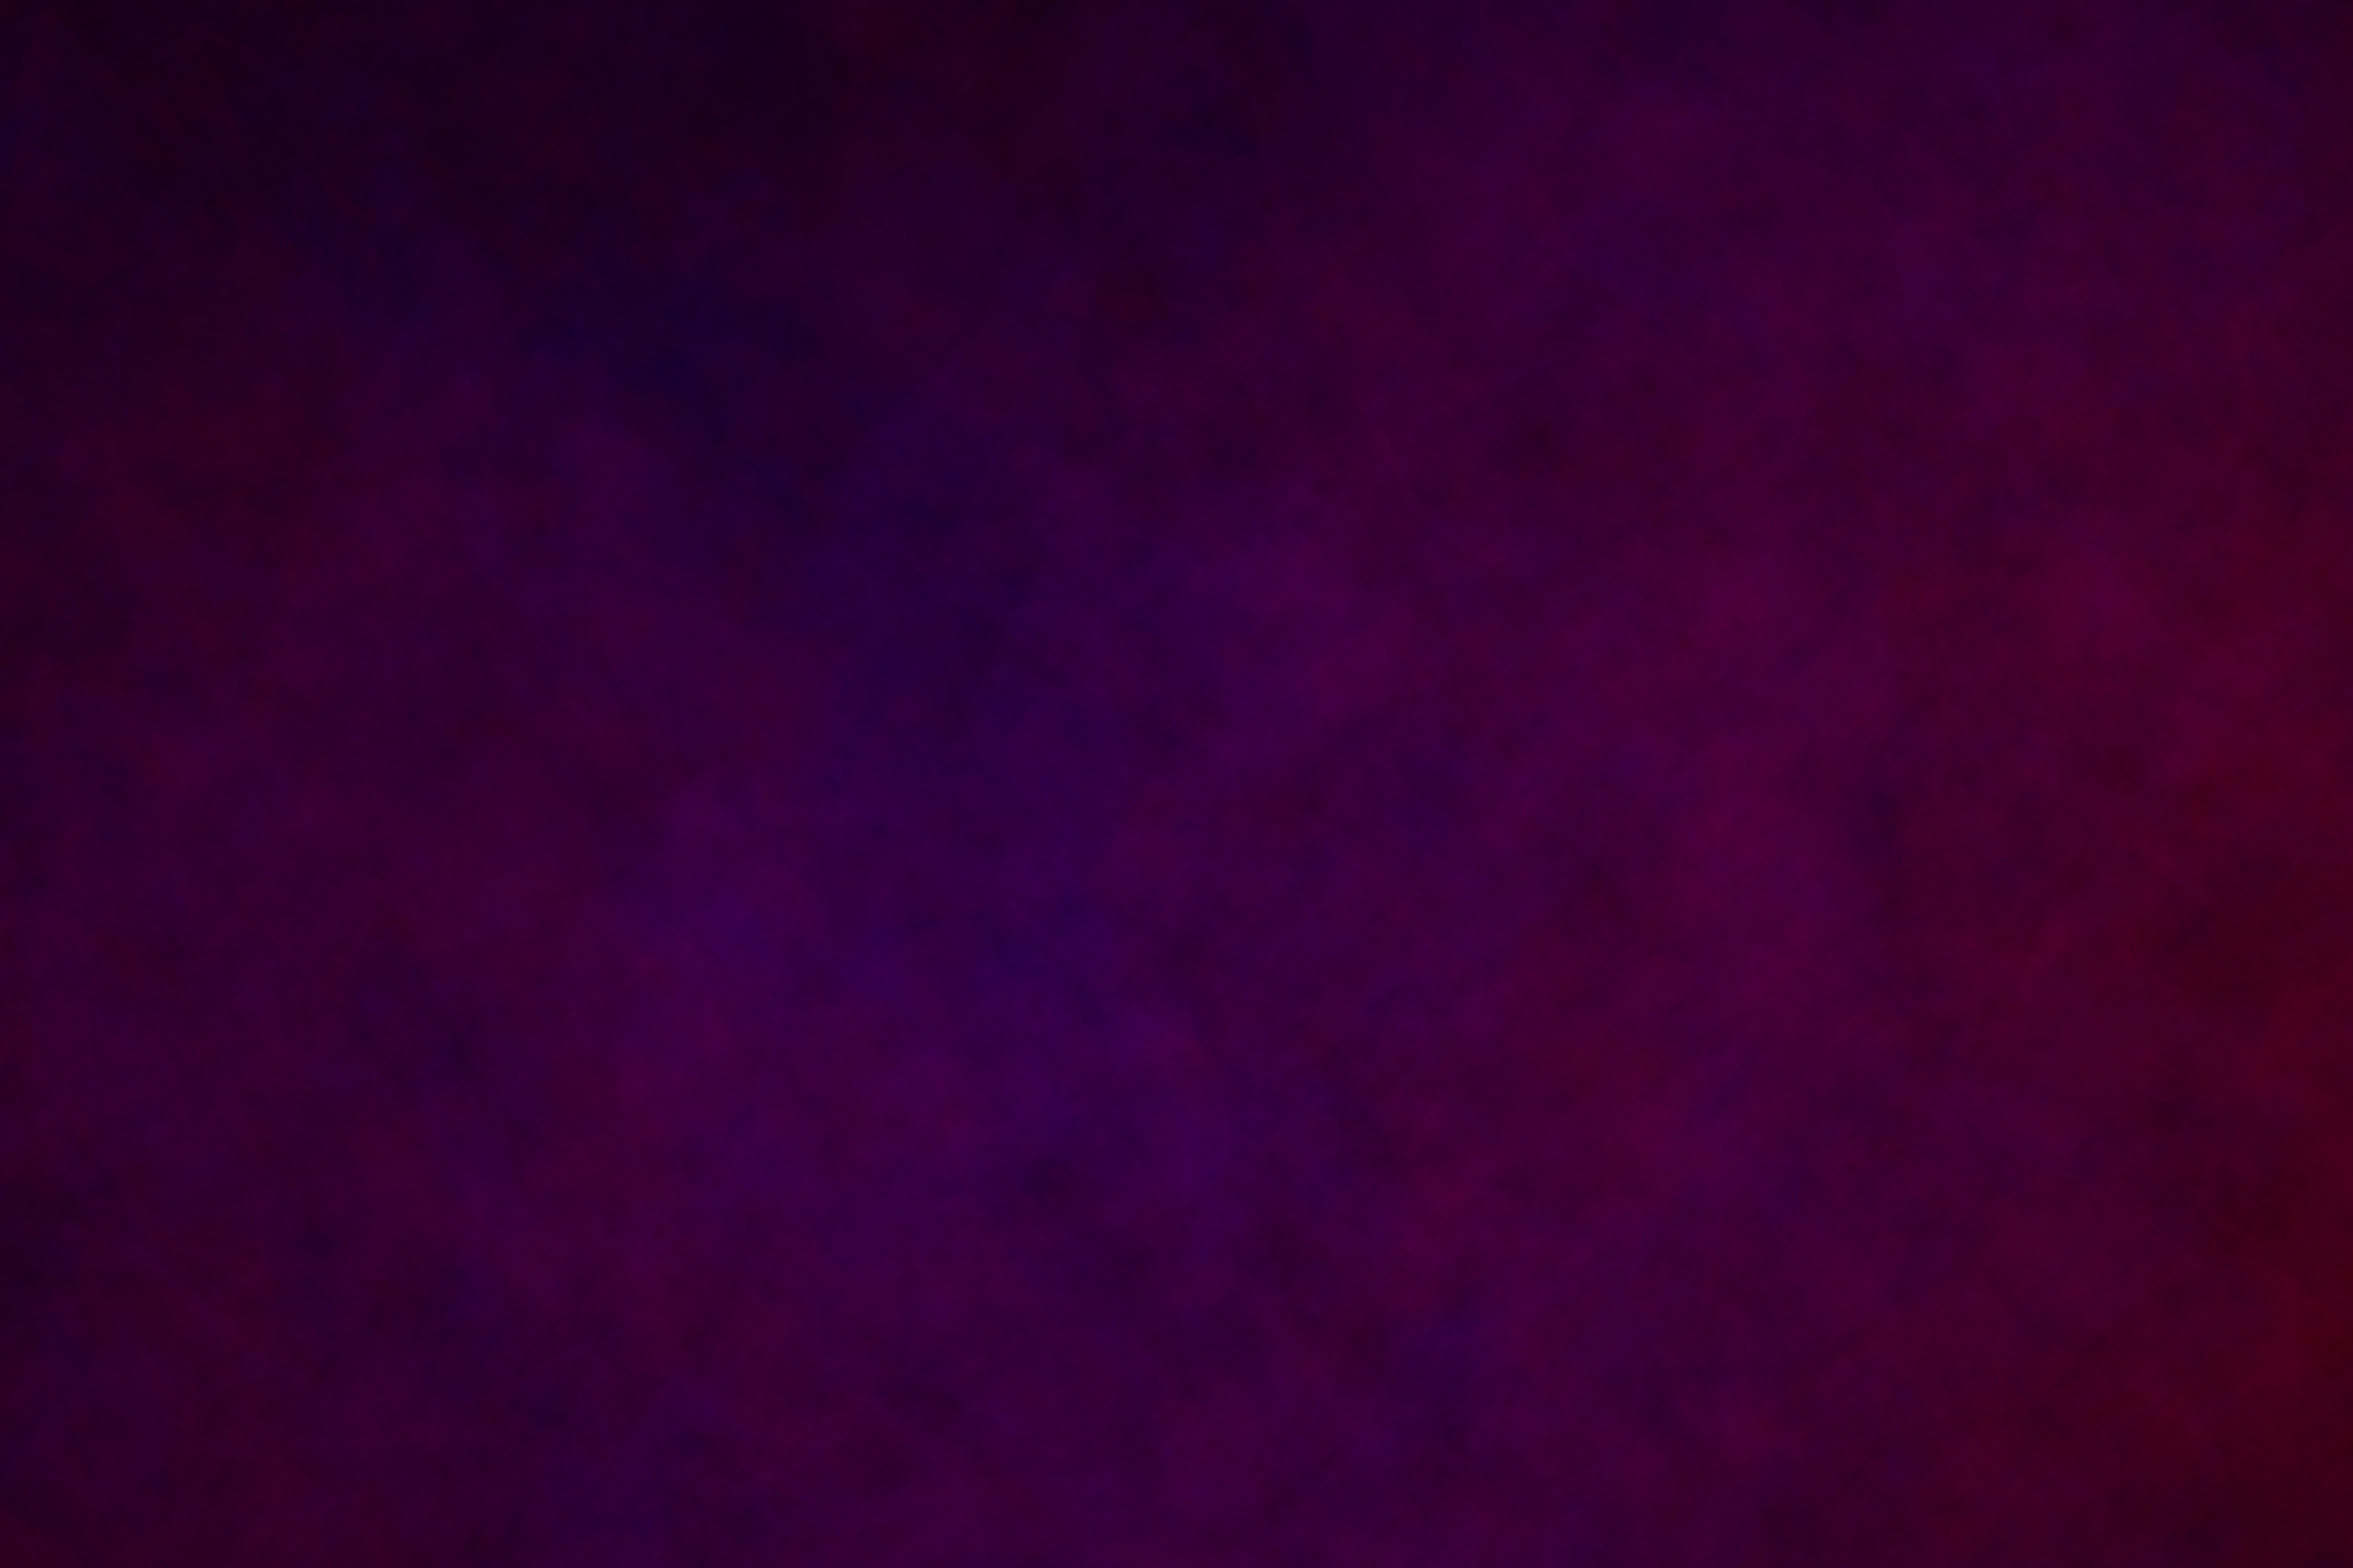
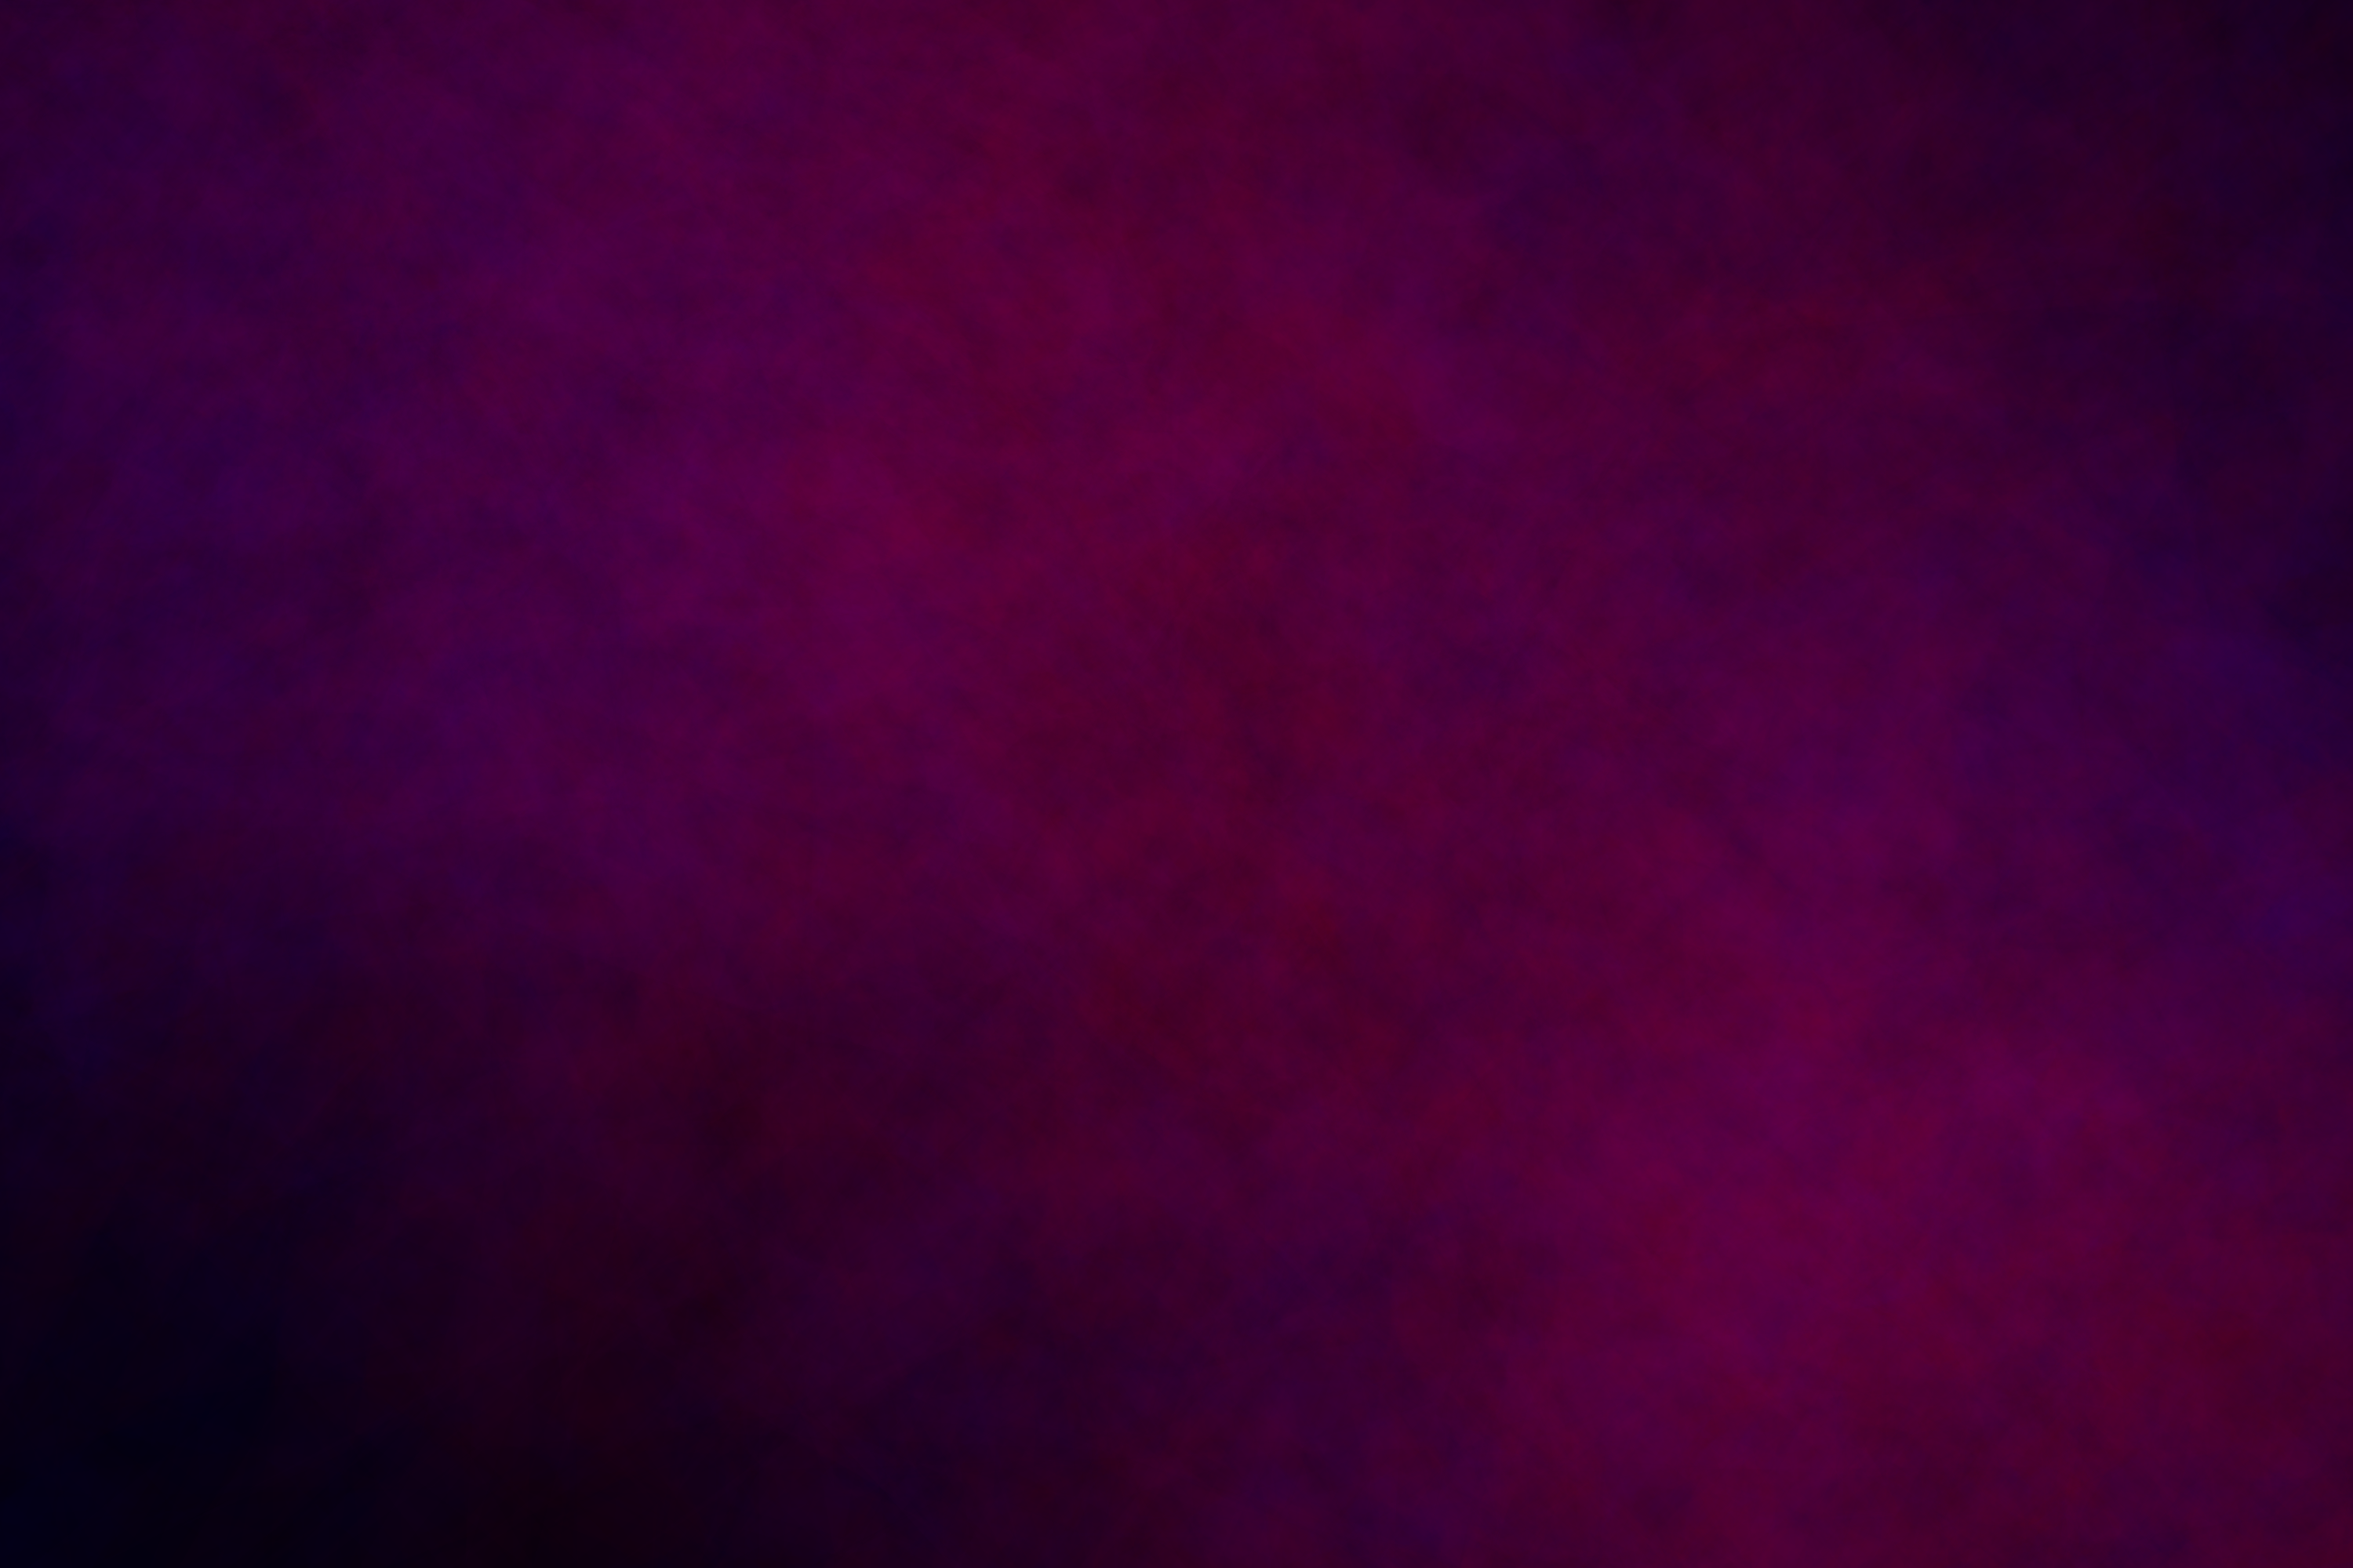
push

diff --git a/solarsystem/modules/generate.py b/solarsystem/modules/generate.py
@@ -78,7 +78,116 @@ def generate_planets(display_type, randomize, rings, nebula, border, width, heig
                 points_positive.append((xcoord, ycoord))
         return points_positive
 
+    def draw_nebula():
+        float_gen = lambda a, b: random.uniform(a, b)
 
+        colors = []
+        for x in range(10):
+            colors.append((0,0,0))
+        for i in range(15):
+            colors.append((float_gen(.1, 1), float_gen(.1, float_gen(.5, .65)), float_gen(.1, 1)))
+            colors.append((0, 0, 0))
+
+        def draw_background(cr, width, height):
+            cr.rectangle(0, 0, width, height)
+            cr.set_source_rgb(0, 0, 0)
+            cr.fill()
+
+        def octagon(x_orig, y_orig, side):
+            x = x_orig
+            y = y_orig
+            d = side / math.sqrt(2)
+
+            oct = []
+
+            oct.append((x, y))
+
+            x += side
+            oct.append((x, y))
+
+            x += d
+            y += d
+            oct.append((x, y))
+
+            y += side
+            oct.append((x, y))
+
+            x -= d
+            y += d
+            oct.append((x, y))
+
+            x -= side
+            oct.append((x, y))
+
+            x -= d
+            y -= d
+            oct.append((x, y))
+
+            y -= side
+            oct.append((x, y))
+
+            x += d
+            y -= d
+            oct.append((x, y))
+
+            return oct
+
+        def deform(shape, iterations, variance):
+            for i in range(iterations):
+                for j in range(len(shape)-1, 0, -1):
+                    midpoint = ((shape[j-1][0] + shape[j][0])/2 + float_gen(-variance, variance), (shape[j-1][1] + shape[j][1])/2 + float_gen(-variance, variance))
+                    shape.insert(j, midpoint)
+            return shape
+
+        min_shape = 10
+        max_num = 15
+        def main():
+
+            # size of canvas
+            width = 3000
+            height = 2000
+            # initial 
+            initial = 10
+            deviation = 1000
+            # deformations
+            basedeforms = 1
+            finaldeforms = 3
+            # oct nums
+            minshapes = int(min_shape)
+            maxshapes = int(max_num)
+            # color presense
+            shapealpha = .007
+
+            ims = cairo.ImageSurface(cairo.FORMAT_ARGB32, width, height)
+            cr = cairo.Context(ims)
+
+            cr.set_source_rgb(.9, .9, .9)
+            cr.rectangle(0, 0, width, height)
+            cr.fill()
+            
+            draw_background(cr, width, height)
+
+            cr.set_line_width(1)
+
+            for p in range(-int(height*.2), int(height*1.2), 60):
+                cr.set_source_rgba(random.choice(colors)[0], random.choice(colors)[1], random.choice(colors)[2], shapealpha)
+
+                shape = octagon(random.randint(-100, width+100), p, random.randint(100, 300))
+                baseshape = deform(shape, basedeforms, initial)
+
+                for j in range(random.randint(minshapes, maxshapes)):
+                    tempshape = copy.deepcopy(baseshape)
+                    layer = deform(tempshape, finaldeforms, deviation)
+
+                    for i in range(len(layer)):
+                        cr.line_to(layer[i][0], layer[i][1])
+                    cr.fill()
+            
+            # ims.write_to_png('../solarsystem/space/static/renderings/nebula.png')
+            
+
+        main()
+        
     display = display_type
     rando =randomize
     ring = rings
@@ -117,7 +226,7 @@ def generate_planets(display_type, randomize, rings, nebula, border, width, heig
         ims = cairo.ImageSurface(cairo.FORMAT_ARGB32, width, height)
         cr = cairo.Context(ims)
 
-    
+        draw_nebula()
         draw_background(cr, width, height, white_star, yellow_star, blue_star)
         
 
